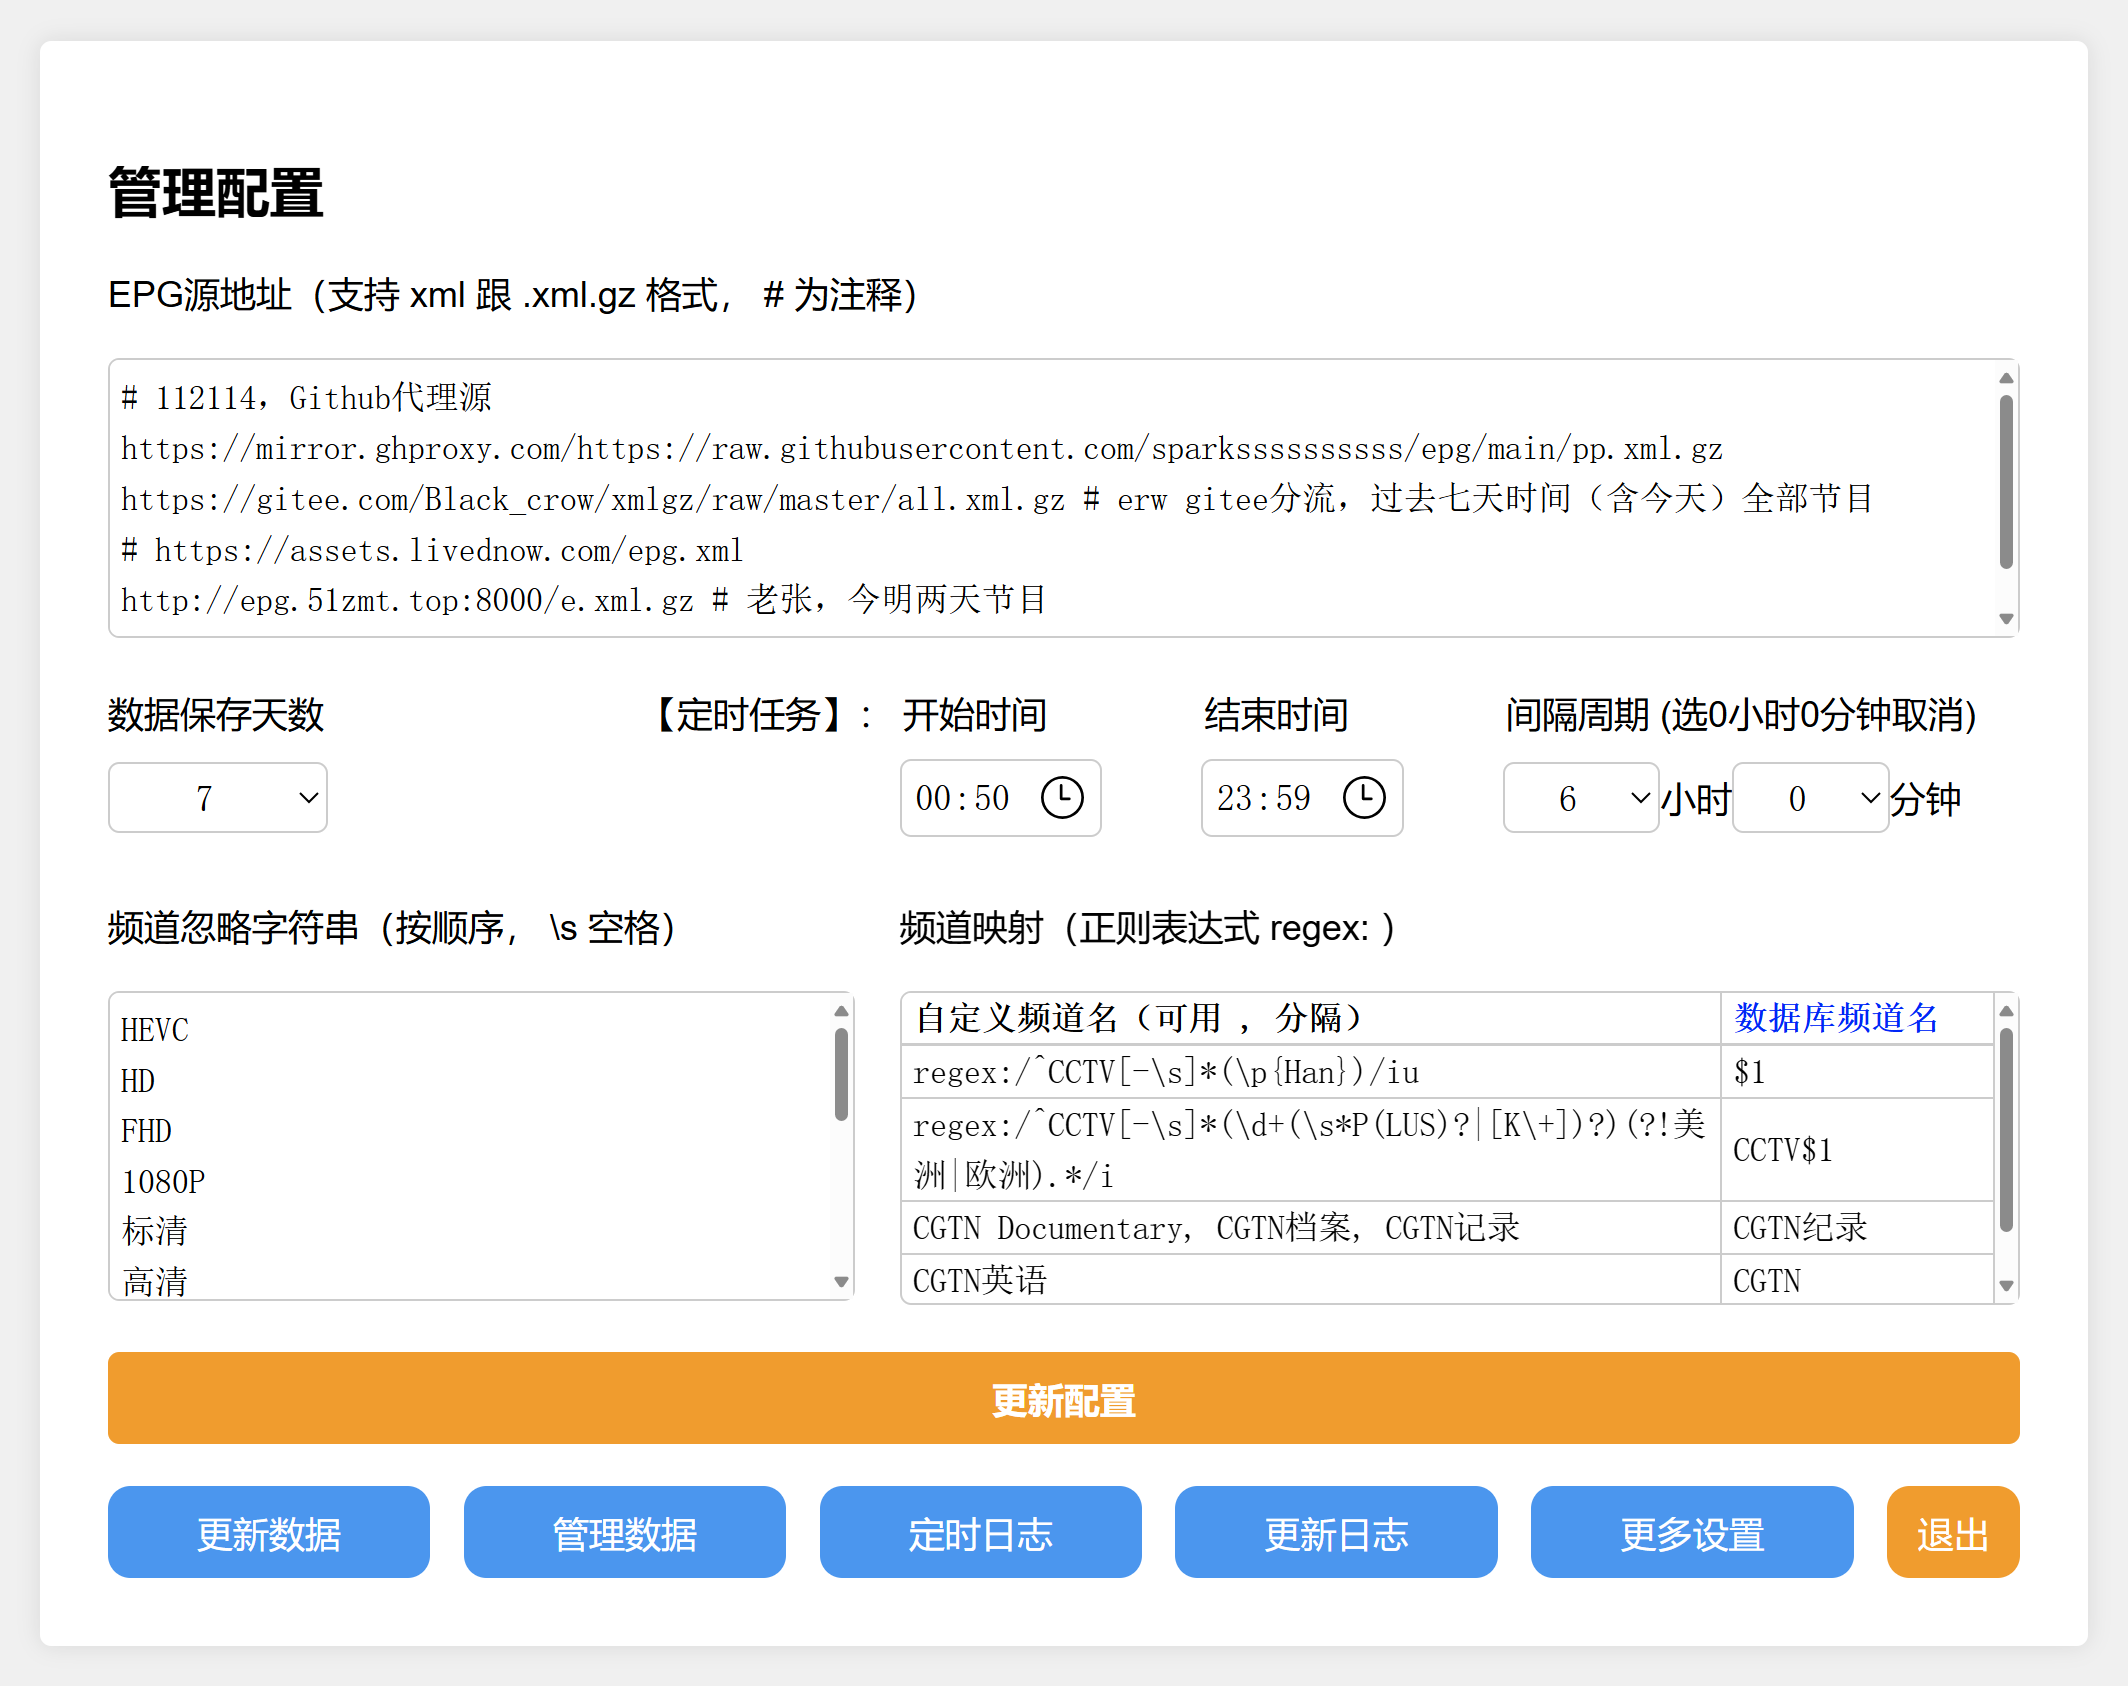
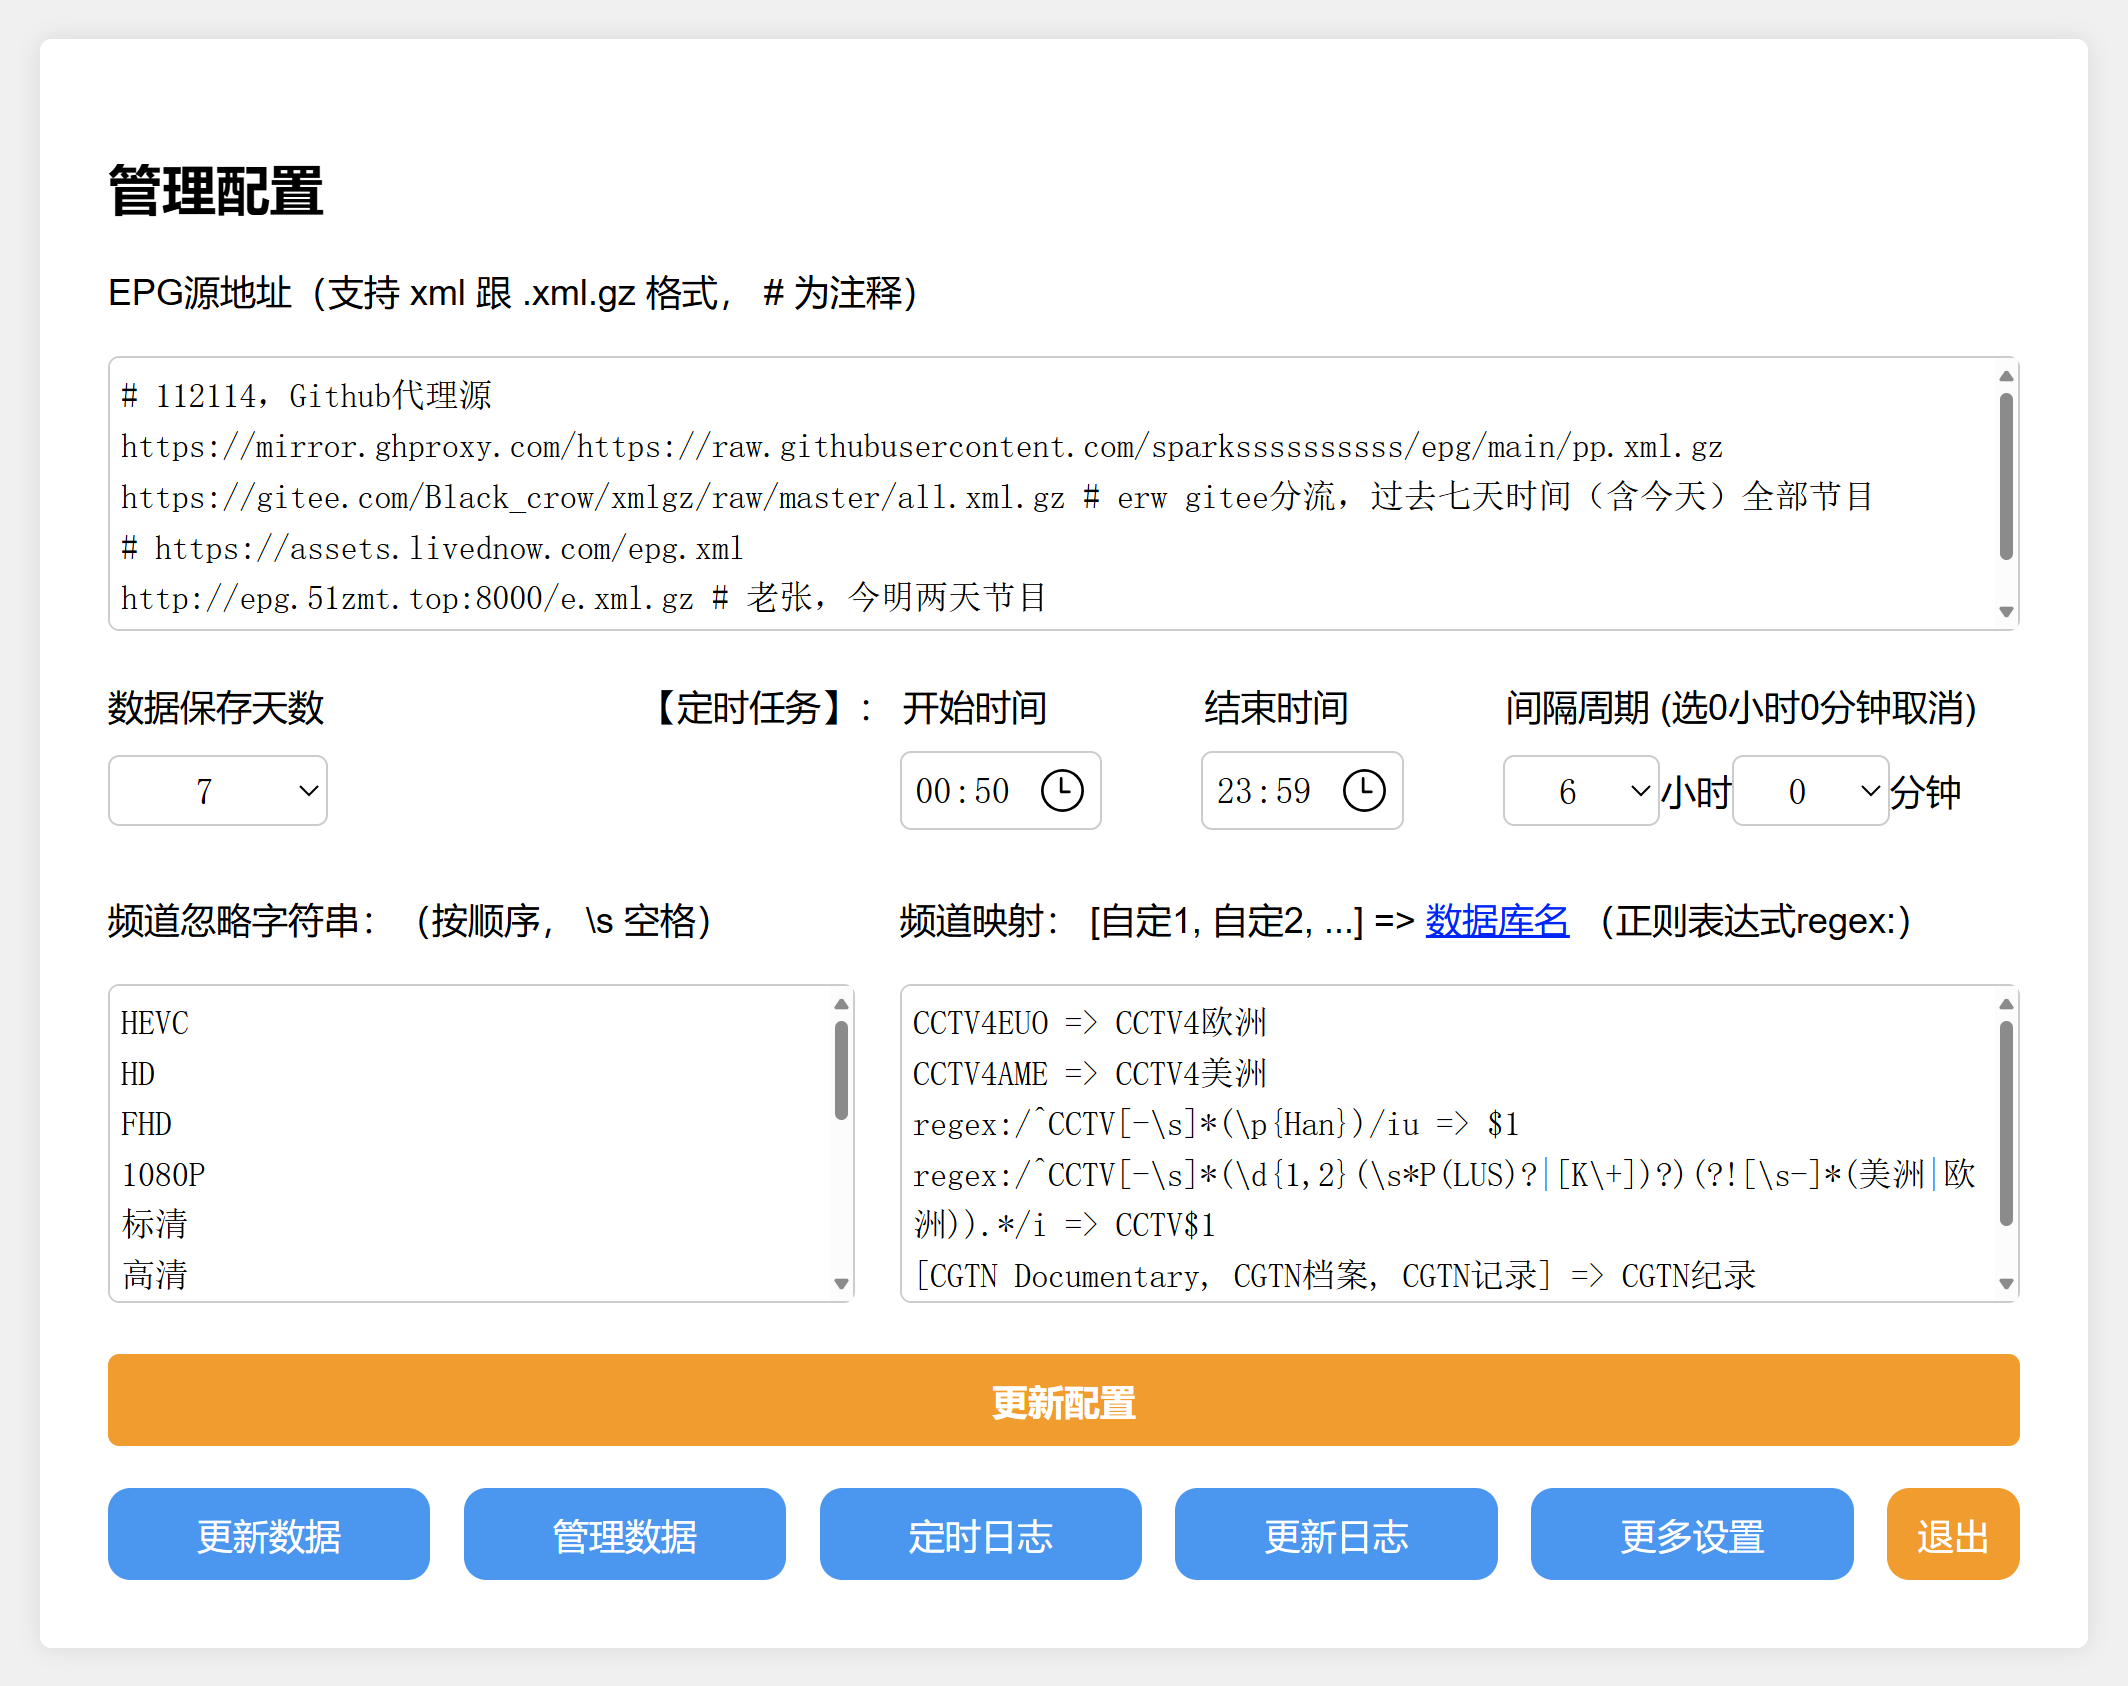
优化更新逻辑，优化频道映射
1. 优化：数据重复时的更新逻辑（越前面，优先级越高）
2. 优化：频道映射规则（针对 `51zmt` 的 `CCTV4EUO` 跟 `CCTV4AME` 命名）
3. 优化：频道映射界面改回之前的版本（新版本直观，但在修改规则时效率太低）

diff --git a/epg/manage.php b/epg/manage.php
@@ -158,22 +158,11 @@ if ($_SERVER['REQUEST_METHOD'] == 'POST' && isset($_POST['update'])) {
     $channel_replacements = array_map('trim', explode("\n", trim($_POST['channel_replacements'])));
 
     // 处理频道映射
+    $channel_mappings_lines = array_map('trim', explode("\n", trim($_POST['channel_mappings'])));
     $channel_mappings = [];
-    $current_search = '';
-    foreach ($_POST['channel_mappings'] as $mapping) {
-        // 如果当前项是 search，则存储为当前搜索模式
-        if (isset($mapping['search'])) {
-            $current_search = trim(str_replace("，", ",", $mapping['search']));
-        }
-        // 如果当前项是 replace，则将其与当前 search 组合，并存入频道映射数组
-        elseif (isset($mapping['replace'])) {
-            $replace = trim($mapping['replace']);
-            if ($current_search !== '' && $replace !== '') {
-                $channel_mappings[$current_search] = $replace;
-            }
-            // 重置 current_search 以准备处理下一对 search-replace
-            $current_search = '';
-        }
+    foreach ($channel_mappings_lines as $line) {
+        list($search, $replace) = preg_split('/=》|=>/', $line);
+        $channel_mappings[trim(str_replace("，", ",", $search))] = trim($replace);
     }
 
     // 获取旧的配置
@@ -326,7 +315,7 @@ if ($_SERVER['REQUEST_METHOD'] == 'GET' && isset($_GET['url'])) {
     <form method="POST" id="settingsForm">
 
         <label for="xml_urls">EPG源地址（支持 xml 跟 .xml.gz 格式， # 为注释）</label><br><br>
-        <textarea placeholder="一行一个，地址前面加 # 可以临时停用，后面加 # 可以备注。快捷键： Ctrl+/  。" id="xml_urls" name="xml_urls" rows="5"><?php echo implode("\n", array_map('trim', $Config['xml_urls'])); ?></textarea><br><br>
+        <textarea placeholder="一行一个，地址前面加 # 可以临时停用，后面加 # 可以备注。快捷键： Ctrl+/  。" id="xml_urls" name="xml_urls" style="height: 122px;"><?php echo implode("\n", array_map('trim', $Config['xml_urls'])); ?></textarea><br><br>
 
         <div class="form-row">
             <label for="days_to_keep" class="label-days-to-keep">数据保存天数</label>
@@ -365,45 +354,18 @@ if ($_SERVER['REQUEST_METHOD'] == 'GET' && isset($_GET['url'])) {
         
         <div class="flex-container">
             <div class="flex-item" style="width: 40%;">
-                <label for="channel_replacements">频道忽略字符串（按顺序， \s 空格）</label><br><br>
-                <textarea id="channel_replacements" name="channel_replacements" style="height: 138px;"><?php echo implode("\n", array_map('trim', $Config['channel_replacements'])); ?></textarea><br><br>
+                <label for="channel_replacements">频道忽略字符串：（按顺序， \s 空格）</label><br><br>
+                <textarea id="channel_replacements" name="channel_replacements" style="height: 142px;"><?php echo implode("\n", array_map('trim', $Config['channel_replacements'])); ?></textarea><br><br>
             </div>
             <div class="flex-item" style="width: 60%;">
-                <label for="channel_mappings">频道映射（正则表达式 regex: ）</label><br><br>
-                <div class="table-wrapper">
-                    <table id="channelMappingsTable">
-                        <thead style="position: sticky; top: 0; background-color: #ffffff;"><tr>                                
-                            <th>自定义频道名（可用 , 分隔）</th>
-                            <th><span onclick="showModal('channel')" style="color: blue; cursor: pointer;">数据库频道名</span></th>
-                        </tr></thead>
-                        <tbody>
-                            <?php foreach ($Config['channel_mappings'] as $search => $replace): ?>
-                            <tr>
-                                <td contenteditable="true" oninput="updateHiddenInput(this); addRowIfNeeded(this)">
-                                    <?php echo htmlspecialchars(trim($search, '[]'), ENT_QUOTES); ?>
-                                    <input type="hidden" name="channel_mappings[][search]" value="<?php echo htmlspecialchars(trim($search, '[]'), ENT_QUOTES); ?>">
-                                </td>
-                                <td contenteditable="true" oninput="updateHiddenInput(this); addRowIfNeeded(this)">
-                                    <?php echo htmlspecialchars($replace, ENT_QUOTES); ?>
-                                    <input type="hidden" name="channel_mappings[][replace]" value="<?php echo htmlspecialchars($replace, ENT_QUOTES); ?>">
-                                </td>
-                            </tr>
-                            <?php endforeach; ?>
-                            <!-- 初始空行 -->
-                            <tr>
-                                <td contenteditable="true" oninput="updateHiddenInput(this); addRowIfNeeded(this)">
-                                    <input type="hidden" name="channel_mappings[][search]" value="">
-                                </td>
-                                <td contenteditable="true" oninput="updateHiddenInput(this); addRowIfNeeded(this)">
-                                    <input type="hidden" name="channel_mappings[][replace]" value="">
-                                </td>
-                            </tr>
-                        </tbody>
-                    </table>
-                </div><br>
+            <label for="channel_mappings">
+                    频道映射： [自定1, 自定2, ...] => 
+                    <span id="dbChannelName" onclick="showModal('channel')" style="color: blue; text-decoration: underline; cursor: pointer;">数据库名</span>
+                    （正则表达式regex:）
+                </label><br><br>
+                <textarea id="channel_mappings" name="channel_mappings" style="height: 142px;"><?php echo implode("\n", array_map(function($search, $replace) { return $search . ' => ' . $replace; }, array_keys($Config['channel_mappings']), $Config['channel_mappings'])); ?></textarea><br><br>
             </div>
         </div>
-
         <div class="tooltip">
             <input id="updateConfig" type="submit" name="update" value="更新配置">
             <span class="tooltiptext">快捷键：Ctrl+S</span>
@@ -518,23 +480,6 @@ if ($_SERVER['REQUEST_METHOD'] == 'GET' && isset($_GET['url'])) {
         window.location.href = 'manage.php';
     }
 
-    // 频道映射自动添加空行
-    function addRowIfNeeded(cell) {
-        var row = cell.parentElement;
-        var table = row.parentElement;
-        var isLastRow = row === table.lastElementChild;
-        if (isLastRow && cell.innerText.trim() !== "") {
-            var newRow = table.insertRow();
-            newRow.innerHTML = `
-                <td contenteditable="true" oninput="updateHiddenInput(this); addRowIfNeeded(this)">
-                    <input type="hidden" name="channel_mappings[][search]" value="">
-                </td>
-                <td contenteditable="true" oninput="updateHiddenInput(this); addRowIfNeeded(this)">
-                    <input type="hidden" name="channel_mappings[][replace]" value="">
-                </td>`;
-            newRow.scrollIntoView({ behavior: 'smooth', block: 'end' });// 自动滚动到新添加的行
-        }
-    }
     function updateHiddenInput(cell) {
         var hiddenInput = cell.querySelector('input[type="hidden"]');
         hiddenInput.value = cell.textContent.trim();

diff --git a/epg/update.php b/epg/update.php
@@ -234,6 +234,8 @@ function formatTime($date, $time) {
 
 // 处理 XML 数据并逐步存入数据库
 function processXmlData($xml_data, $date, $db, $gen_list) {
+    global $processedRecords;
+
     $reader = new XMLReader();
     if (!$reader->XML($xml_data)) {
         throw new Exception("无法解析 XML 数据");
@@ -284,17 +286,20 @@ function processXmlData($xml_data, $date, $db, $gen_list) {
         $start = getFormatTime((string)$programme['start']);
         $end = getFormatTime((string)$programme['stop']);
         $channelId = (string)$programme['channel'];
-    
+        $channelName = $channelNamesMap[$channelId] ?? null;
+        $recordKey = $channelName . '-' . $start['date'];
+
         // 优先处理跨天数据
         if (isset($crossDayProgrammes[$channelId][$start['date']])) {
             $currentChannelProgrammes[$channelId]['diyp_data'][$start['date']] = array_merge(
                 $currentChannelProgrammes[$channelId]['diyp_data'][$start['date']] ?? [],
                 $crossDayProgrammes[$channelId][$start['date']]
             );
+            $currentChannelProgrammes[$channelId]['channel_name'] = $channelName;
             unset($crossDayProgrammes[$channelId][$start['date']]);
         }
     
-        if (isset($channelNamesMap[$channelId])) {
+        if ($channelName && !isset($processedRecords[$recordKey])) {
             $programmeData = [
                 'title' => (string)$programme->title,
                 'start' => $start['time'],
@@ -314,7 +319,7 @@ function processXmlData($xml_data, $date, $db, $gen_list) {
                 ];
             }
     
-            $currentChannelProgrammes[$channelId]['channel_name'] = $channelNamesMap[$channelId];
+            $currentChannelProgrammes[$channelId]['channel_name'] = $channelName;
     
             // 每次达到 50 时，插入数据并保留最后一条
             if (count($currentChannelProgrammes) >= 50) {
@@ -337,8 +342,13 @@ function processXmlData($xml_data, $date, $db, $gen_list) {
 
 // 插入数据到数据库
 function insertDataToDatabase($channelsData, $db) {
+    global $processedRecords;
+
     foreach ($channelsData as $channelId => $channelData) {
         $channelName = $channelData['channel_name'];
+        if($channelName == null) {
+            print_r($channelData);
+        }
         foreach ($channelData['diyp_data'] as $date => $diypProgrammes) {
             // 生成 epg_diyp 数据内容
             $diypContent = json_encode([
@@ -356,6 +366,10 @@ function insertDataToDatabase($channelsData, $db) {
             $stmt->bindValue(':channel', $channelName, PDO::PARAM_STR);
             $stmt->bindValue(':epg_diyp', $diypContent, PDO::PARAM_STR);
             $stmt->execute();
+            if ($action == 'REPLACE' || $stmt->rowCount() > 0){
+                $recordKey = $channelName . '-' . $date;
+                $processedRecords[$recordKey] = true;
+            }
         }
     }
 }
@@ -373,6 +387,9 @@ deleteOldData($db, $Config['days_to_keep'], $log_messages);
 $gen_res = getGenList($db);
 $gen_list = $gen_res['gen_list'];
 $gen_list_mapping = $gen_res['gen_list_mapping'];
+
+// 全局变量，用于记录已处理的记录
+$processedRecords = [];
 
 // 更新数据
 foreach ($Config['xml_urls'] as $xml_url) {
